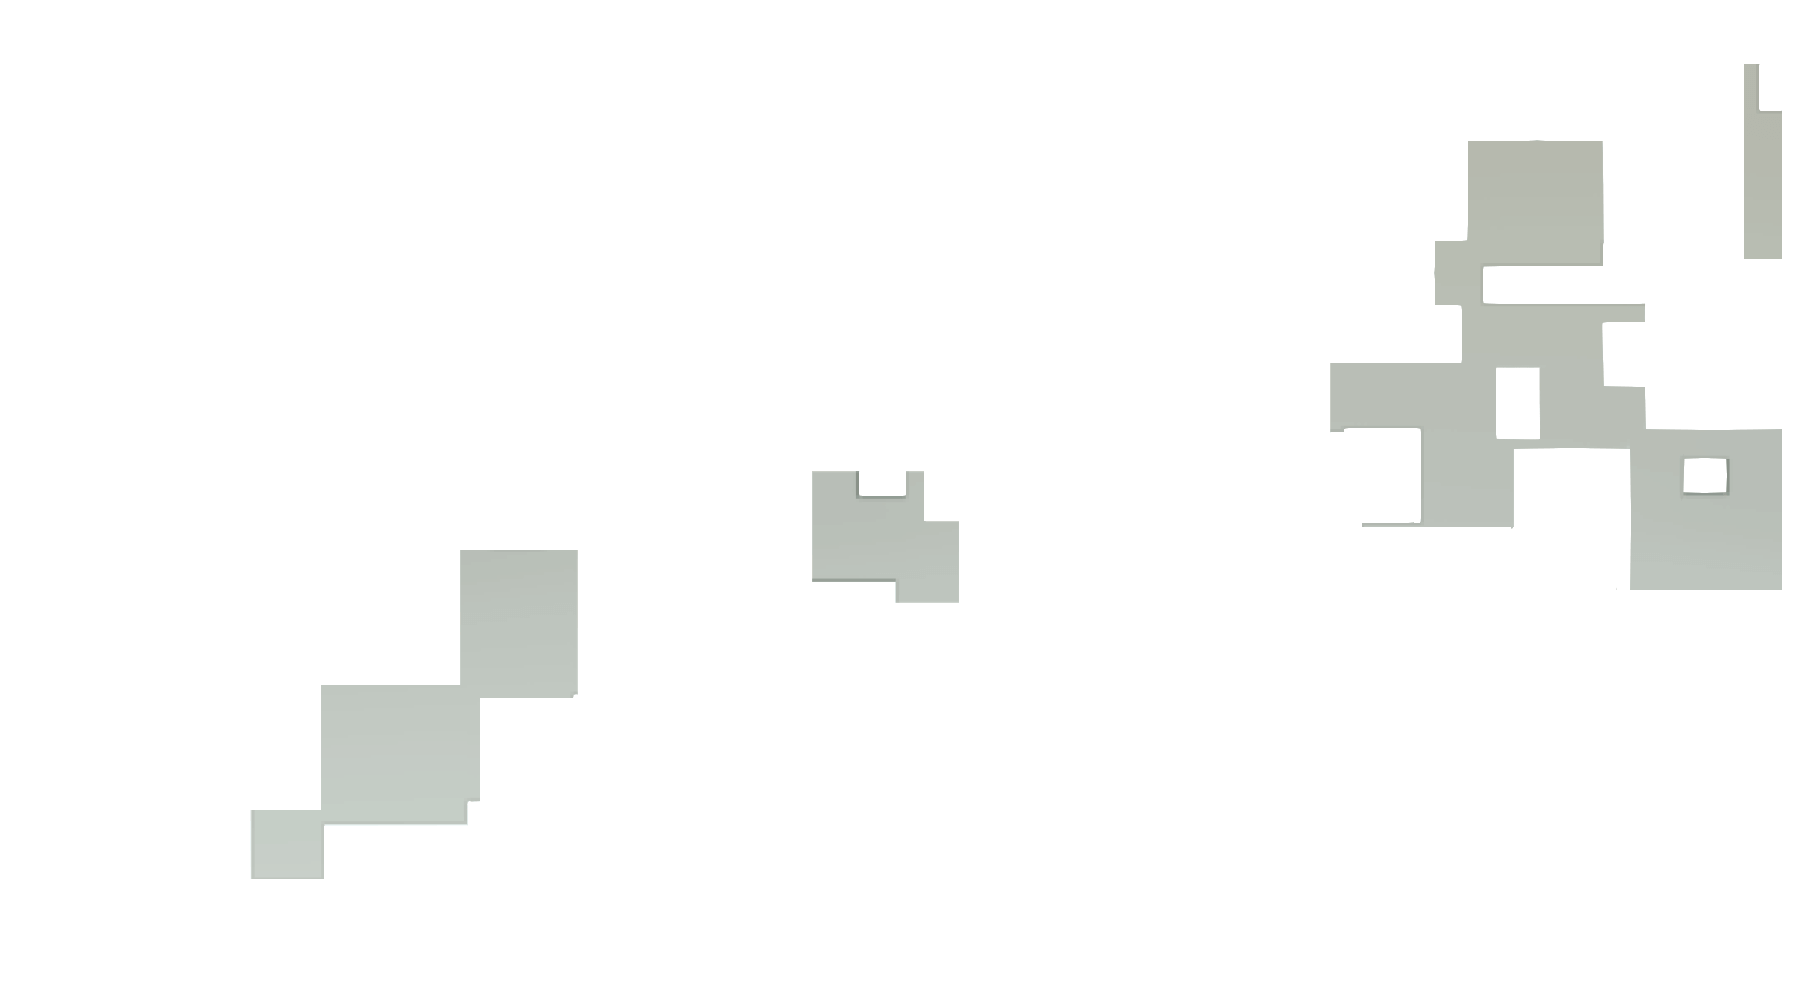
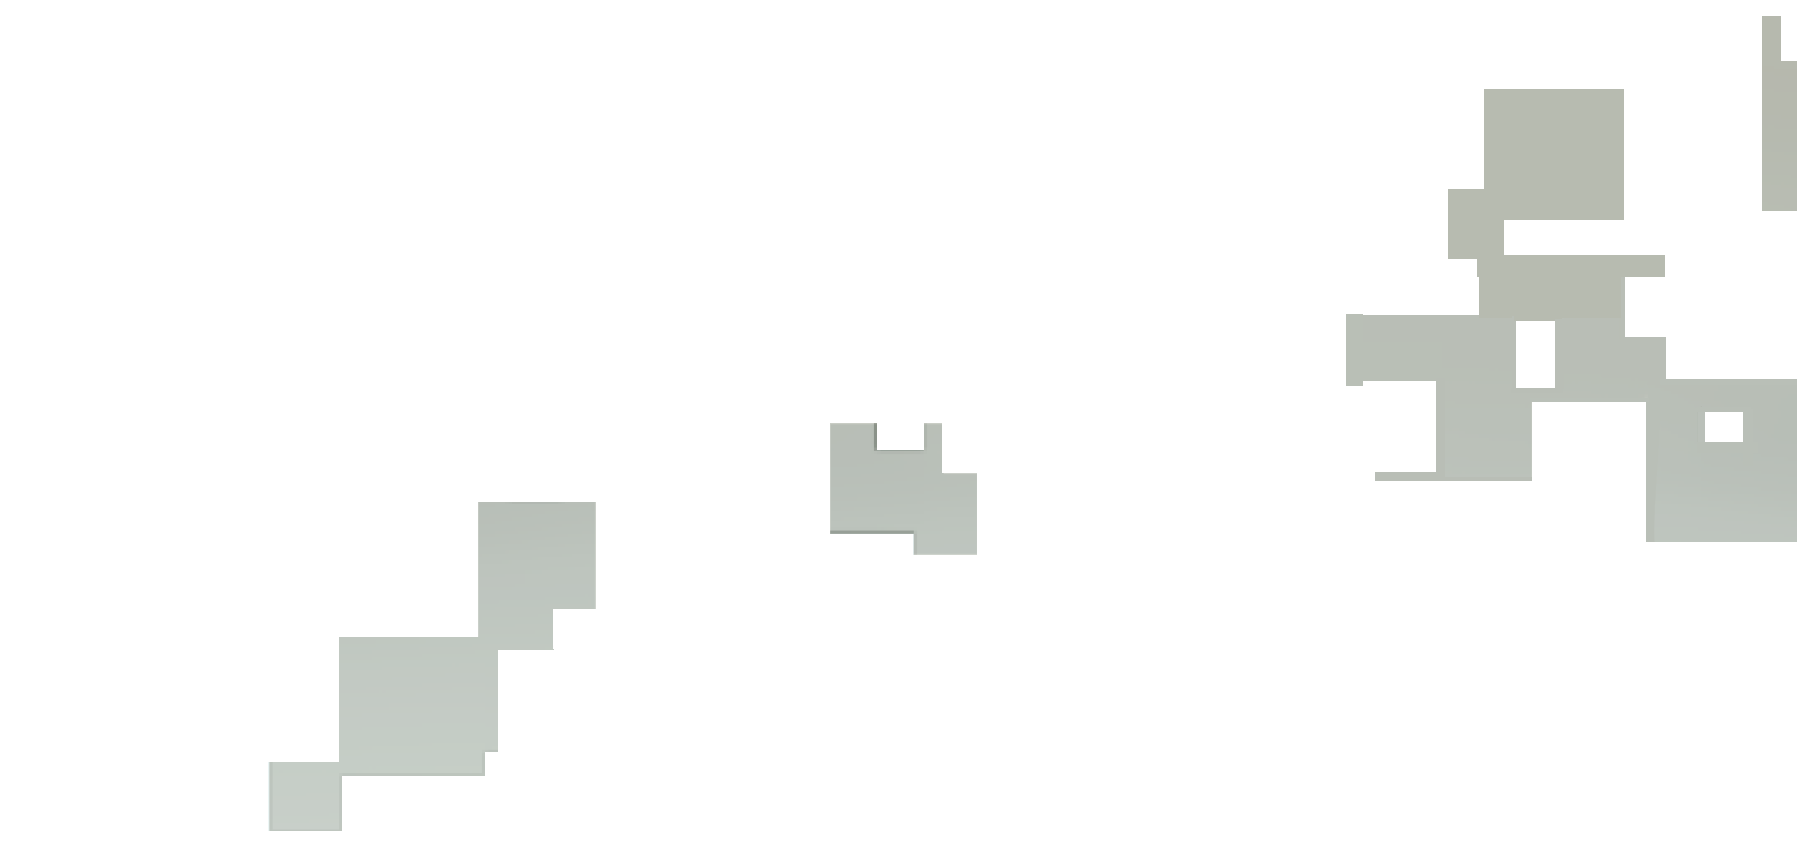
fix loadpage bug

diff --git a/scss/_content.scss b/scss/_content.scss
@@ -3,8 +3,8 @@
 	background-color: white;
 	min-height: 0em;
 	margin-top: 6em;
-	box-shadow: 0 0 6em 4em rgba(255,255,255,.8);
-	background-color: rgba(255,255,255,.8);
+	box-shadow: 0 0 6em 6em rgba(255,255,255,.6);
+	background-color: rgba(255,255,255,.6);
 	color: $darkGreen;
 	font-size: $fontNormal;
 	overflow-x: hidden;

diff --git a/js/loadPage.js b/js/loadPage.js
@@ -9,7 +9,7 @@ var pages = [
 	{url: './pages/staff' , id: 'staff_text' , btnid: 'staff'}
 ];
 
-var nowShow = 'about_text';
+var nowShow = 'nothing';
 var lock = false;
 for(var i=0 ; i<pages.length ; ++i){
 	var getPage = function(){

diff --git a/scss/_bg.scss b/scss/_bg.scss
@@ -14,7 +14,7 @@
 	}
 
 	img{
-		width: 120%;
+		width: 110%;
 		height: auto;
 		position: absolute;
 		left: -8%;
